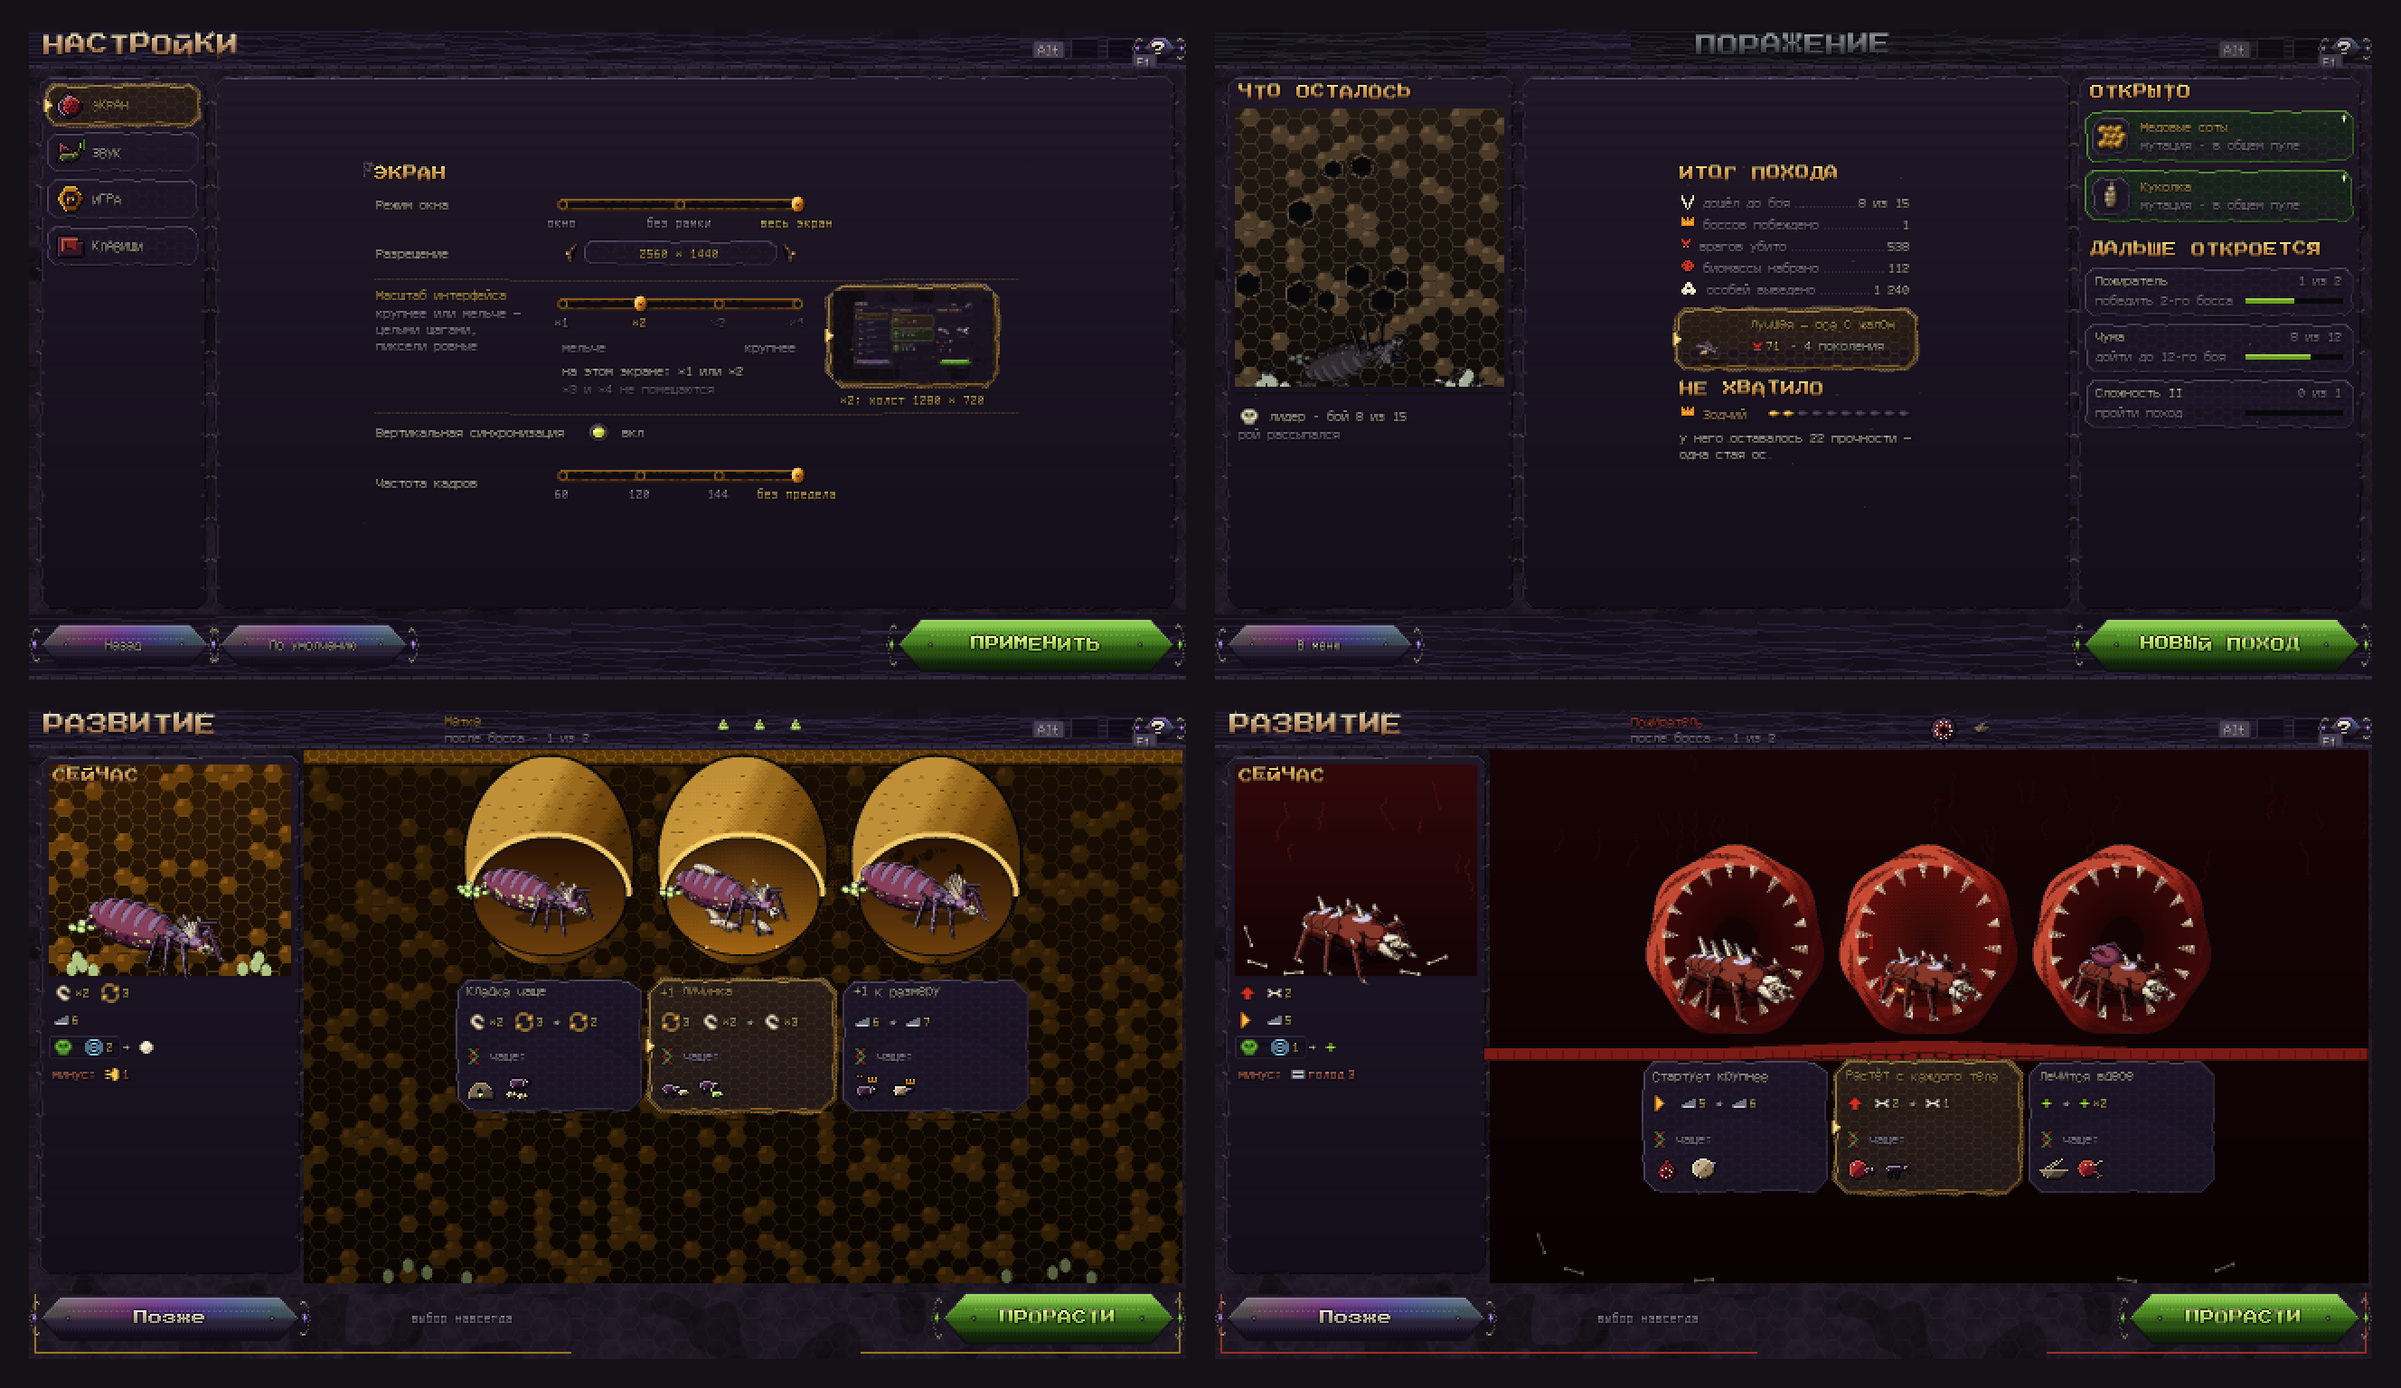
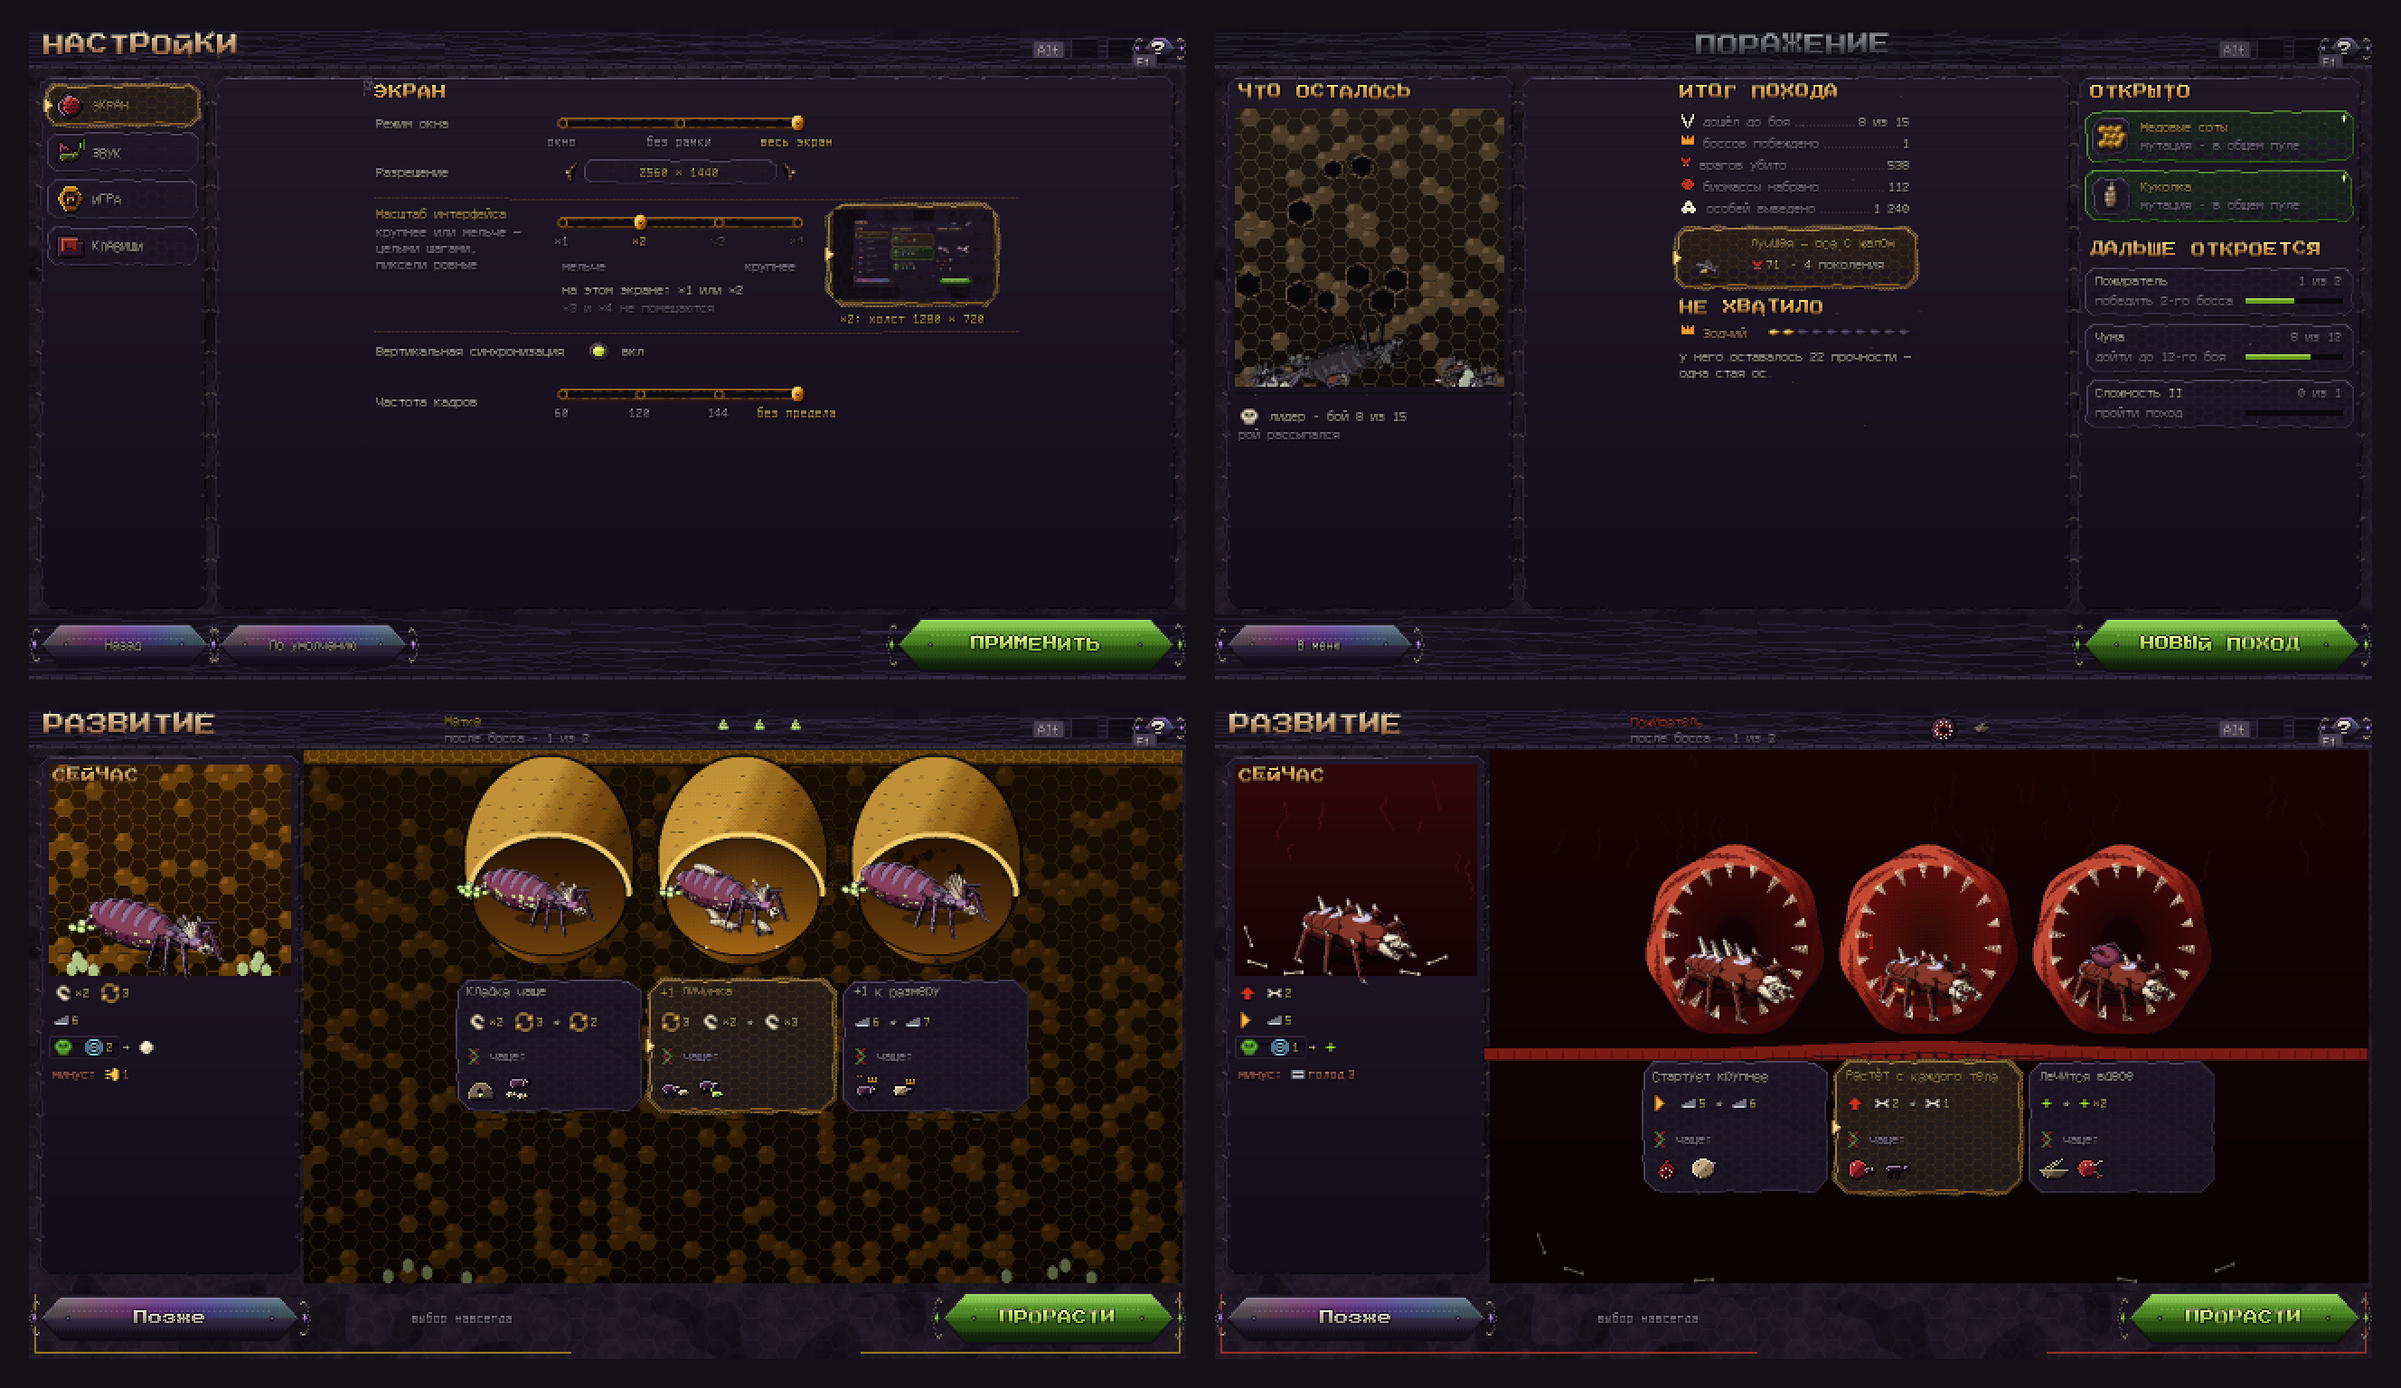
Рой: остальные экраны на большом холсте; споры и мёртвые заметнее
Улей, эволюция, выбор лидера и полные карточки на 1280×720; растущая плита
прижата к верху, край лидера обводит весь холст. Споры Чумы летят из
разрыва дождевика, мёртвая кладка на экране поражения лежит на полу с
бледной обводкой.

Claude-Session: https://claude.ai/code/session_01Bh6a99SKMjjKSinDnrtssC

diff --git a/tools/sprites/swarm_hud.py b/tools/sprites/swarm_hud.py
@@ -112,15 +112,15 @@ def glyph(sc, key, x, y, z=2):
     return a_.shape[1] * z
 
 
-def help_button(sc, on=False, alt=False):
+def help_button(sc, on=False, alt=False, dx=0):
     """The wing's right end, the same on every screen: the Alt key (lit while held — every line of glyphs read
-    out in words), two empty sockets kept for buttons to come, and «?» — the glossary (F1)."""
-    keycap(sc, 790, 14, "Alt", lit=alt)
-    for sx in (832, 872):                                   # kept for buttons to come
+    out in words), two empty sockets kept for buttons to come, and «?» — the glossary (F1). dx: a wider canvas."""
+    keycap(sc, 790 + dx, 14, "Alt", lit=alt)
+    for sx in (832 + dx, 872 + dx):                         # kept for buttons to come
         cond_plate(sc, sx, 10, sx + 32, 34)
-    UI.button(sc, 912, 8, 950, 36, "amber" if on else "chitin")
-    letters(sc, "?", 931, 14, "title", 16, col=DARK if on else INK, outline=not on, align="center")
-    keycap(sc, 900, 28, "F1")
+    UI.button(sc, 912 + dx, 8, 950 + dx, 36, "amber" if on else "chitin")
+    letters(sc, "?", 931 + dx, 14, "title", 16, col=DARK if on else INK, outline=not on, align="center")
+    keycap(sc, 900 + dx, 28, "F1")
 
 
 SILENT_KEYS = {"Enter", "Esc"}   # work on every screen, but are not written on the buttons
@@ -1288,32 +1288,43 @@ def bug_card(sc, cx, y0, name, sel, seed):
     sc.glow(cx, y0 + 398, 26, hexc("#9ae030"), 0.3 if sel else 0.15)
 
 
-def leaders_pick():
-    sc = frame_screen(41)
+def leaders_pick(W=WW, H=HH, ret=False):
+    """The leader's choice; on a bigger canvas the four cards spread out and stand in the middle, the buttons keep
+    to their ends."""
+    if W == WW and H == HH:
+        sc = frame_screen(41)
+    else:
+        UI.WOBBLE[0] = 1.3
+        HOVER.clear()
+        sc = UI.nest(W, H, 41)
+    dw, dh = W - WW, H - HH
     X, Y = sc.xx, sc.yy
-    fog = np.clip((Y - 300) / 240, 0, 1)[..., None] * 0.22    # acid haze rising from the floor
+    fog = np.clip((Y - 300 - dh) / 240, 0, 1)[..., None] * 0.22    # acid haze rising from the floor
     sc.rgb[:] = sc.rgb * (1 - fog) + np.array((60, 110, 20), float) * fog
     rnd = np.random.RandomState(7)
     for _ in range(40):                                          # bubbles
-        bx, by, br = rnd.randint(10, 950), rnd.randint(300, 470), rnd.choice((1, 1, 2, 3))
+        bx, by, br = rnd.randint(10, W - 10), rnd.randint(300 + dh, 470 + dh), rnd.choice((1, 1, 2, 3))
         ring = (np.abs(np.hypot(X - bx, Y - by) - br) < 0.7)
         sc.rgb[ring] = sc.rgb[ring] * 0.4 + np.array(ACID, float) * 0.6
-    UI.wing(sc, 0, 0, WW, 44)
-    UI.drips(sc, 60, 900, 44, "#7ab020", n=8, seed=18)
+    UI.wing(sc, 0, 0, W, 44)
+    UI.drips(sc, 60, W - 60, 44, "#7ab020", n=8, seed=18)
     w = letters(sc, "ЛИДЕР", 16, 6, "title", 24, col=(236, 216, 170), col2=(150, 96, 60), jitter=1, drips=6, hairs=9, seed=35)
     epithet(sc, "КТО СОЖРЕТ ИХ ВСЕХ", 16 + w + 44, 10, ACID, seed=36, px=24)
-    help_button(sc)
+    help_button(sc, dx=dw)
     names = ["Матка", "Разум улья", "Пожиратель", "Чума"]
     for i, name in enumerate(names):
-        bug_card(sc, 132 + i * 232, 60, name, i == 0, seed=40 + i)
-    UI.button(sc, 12, 470, 300, 520, "chitin")
-    letters(sc, "Назад", 156, 486, "title", 16, col=INK, align="center")
-    key_on(sc, 300, 470, "Esc")
-    UI.button(sc, 326, 470, 634, 520, "chitin")
-    letters(sc, "ПОЛНОЕ ОПИСАНИЕ", 480, 486, "title", 16, col=ACID2, align="center")
-    UI.button(sc, 660, 466, 948, 524, "acid")
-    letters(sc, "В ПОХОД", 804, 486, "title", 16, col=ACID2, col2=(110, 170, 40), align="center", jitter=1, hairs=4)
-    UI.cobweb(sc, 958, 46, 34, quad=(-1, 1))
+        bug_card(sc, int(W / 2 + (i - 1.5) * (232 + dw // 4)), 60 + dh // 2, name, i == 0, seed=40 + i)
+    UI.button(sc, 12, H - 70, 300, H - 20, "chitin")
+    letters(sc, "Назад", 156, H - 54, "title", 16, col=INK, align="center")
+    key_on(sc, 300, H - 70, "Esc")
+    UI.button(sc, W // 2 - 154, H - 70, W // 2 + 154, H - 20, "chitin")
+    letters(sc, "ПОЛНОЕ ОПИСАНИЕ", W // 2, H - 54, "title", 16, col=ACID2, align="center")
+    UI.button(sc, W - 300, H - 74, W - 12, H - 16, "acid")
+    letters(sc, "В ПОХОД", W - 156, H - 54, "title", 16, col=ACID2, col2=(110, 170, 40), align="center", jitter=1, hairs=4)
+    UI.cobweb(sc, W - 2, 46, 34, quad=(-1, 1))
+    if ret:
+        UI.WOBBLE[0] = 0.0
+        return sc
     img = sc.image(S)
     UI.WOBBLE[0] = 0.0
     img.save(out("swarm_leader_pick.png"))
@@ -1484,13 +1495,18 @@ def pod_kuk(sc, cx, cy, hot, frame):
         px_, py_ = cx + rnd.randint(-60, 60), cy + rnd.randint(-70, 80)
         if inner[py_, px_]:
             sc.rgb[py_, px_] = hexc("#c8f070")
-    if hot:
-        for k in range(16):                                               # a puff of spores rising off it
-            q = ((frame / 24.0 + k / 16.0) % 1.0)
-            px_ = int(cx + np.sin(k * 2.3) * (20 + 50 * q))
-            py_ = int(cy - 114 - q * 40)
+    if hot:                                                               # a puff of spores out of the tear, rising
+        sc.glow(cx, cy - 10, 60, hexc("#c8f070"), 0.18)
+        for k in range(22):
+            q = ((frame / 24.0 + k / 22.0) % 1.0)
+            px_ = int(cx + np.sin(k * 2.3) * (8 + 64 * q))
+            py_ = int(cy + 6 - q * 140)
             if py_ > 50:
-                sc.rgb[py_:py_ + 2, px_:px_ + 2] = hexc("#c8f070") * (1 - 0.6 * q) + sc.rgb[py_, px_] * 0.6 * q
+                sz = 3 if q < 0.45 else 2
+                c = hexc("#e8ffa0") * (1 - 0.5 * q) + sc.rgb[py_, px_] * 0.5 * q
+                sc.rgb[py_ - 1:py_ + sz + 1, px_:px_ + sz] = UI.OUTL
+                sc.rgb[py_:py_ + sz, px_ - 1:px_ + sz + 1] = UI.OUTL
+                sc.rgb[py_:py_ + sz, px_:px_ + sz] = c
     return inner
 
 

diff --git a/tools/sprites/swarm_wide.py b/tools/sprites/swarm_wide.py
@@ -99,7 +99,7 @@ def sheet():
     print("swarm_wide_brood.png")
 
 
-def plates_layout(name, cols, W, H, split=600, foot_wing=True, leader=None):
+def plates_layout(name, cols, W, H, split=600, foot_wing=True, leader=None, rim=None):
     """Any swarm screen of plates side by side: the wing the full width, the plates pinned to their edges, the one
     marked «grow» taking the extra width (its content centred), every plate taking the extra height (content at
     its top); the foot the full width, its left buttons pinned left and its right ones right. A «chamber» grows
@@ -125,7 +125,7 @@ def plates_layout(name, cols, W, H, split=600, foot_wing=True, leader=None):
             UI.plate(sc, nx0, y0, nx1, y1 + dh)
             ix0, iy0, ix1, iy1 = x0 + 5, y0 + 5, x1 - 5, y1 - 5
         ox = nx0 + (dw // 2 if mode in ("grow", "chamber") else 0) + (ix0 - x0)
-        sink = dh // 2 if mode in ("grow", "chamber") else 0
+        sink = dh // 2 if mode == "chamber" else 0                       # a growing plate: headings stay in line
         if mode == "chamber" and leader == "Матка":                       # her cells hang from the ceiling: pinned up
             sink = 0
         oy = sink + iy0
@@ -149,8 +149,72 @@ def plates_layout(name, cols, W, H, split=600, foot_wing=True, leader=None):
         UI.wing(sc, 0, sy + 2, W, H)
     paste(sc, src, 0, 468, split, 540, 0, sy + 2)
     paste(sc, src, split, 466, 960, 540, W - (960 - split), sy)
+    if rim:                                                               # a leader's screen: its edge, the full size
+        rim_at(sc, rim, W, H, 46)
     UI.WOBBLE[0] = 0.0
     return sc
+
+
+def rim_at(sc, col, W, H, y0):
+    """The leader's (or the form's) coloured edge round a screen of any size (swarm_hud._rim)."""
+    c = hexc(col)
+    for k in (0, 1):
+        sc.rgb[y0 + k, 6:W - 6] = c * (0.9 - 0.3 * k)
+        sc.rgb[H - 7 - k, 6:W - 6] = c * (0.9 - 0.3 * k)
+        sc.rgb[y0:H - 6, 6 + k] = c * (0.9 - 0.3 * k)
+        sc.rgb[y0:H - 6, W - 7 - k] = c * (0.9 - 0.3 * k)
+
+
+def card_layout(name, W, H, rim=None, left=440):
+    """A full card (swarm_hud.big_card) on a bigger canvas: one plate the whole size; the portrait and its facts
+    pinned left and top, «Закрыть» to the bottom left; the numbers and attacks in the middle; the abilities
+    pinned right — only what was drawn on the plate is lifted onto the bigger one."""
+    src = load(name)
+    UI.WOBBLE[0] = 1.3
+    dw, dh = W - 960, H - 540
+    sc = UI.nest(W, H, 13)
+    beam(sc, src, W, left)
+    bare = Scene(960, 540)
+    UI.plate(bare, 6, 50, 954, 534)
+    UI.plate(sc, 6, 50, W - 6, H - 6)
+
+    def lift(x0, y0, x1, y1, dx, dy):
+        part, base_ = src[y0:y1, x0:x1], bare.rgb[y0:y1, x0:x1]
+        m = np.abs(part - base_).max(axis=-1) > 10
+        m = m | np.roll(m, 1, 0) | np.roll(m, -1, 0) | np.roll(m, 1, 1) | np.roll(m, -1, 1)
+        dst = sc.rgb[y0 + dy:y1 + dy, x0 + dx:x1 + dx]
+        dst[m] = part[m]
+    lift(10, 54, 310, 470, 0, 0)                                          # the portrait and its facts
+    lift(10, 470, 310, 530, 0, dh)                                        # «Закрыть»
+    lift(310, 54, 624, 530, dw // 2, 0)                                   # the numbers, the attacks
+    lift(624, 54, 950, 530, dw, 0)                                        # the abilities
+    if rim:
+        rim_at(sc, rim, W, H, 50)
+    UI.WOBBLE[0] = 0.0
+    return sc
+
+
+def screens_sheet2():
+    """The rest at 1280×720: the hive (the Devourer's), the evolution (the Plague's), the leader's choice, a card."""
+    import swarm_form_cards as FC
+    k = 0.5
+    cw, ch = int(1280 * k), int(720 * k)
+    canvas = Image.new("RGB", (cw * 2 + 48, ch * 2 + 48), (20, 18, 22))
+    camp = [(12, 52, 286, 446, "pin_l"), (296, 52, 652, 446, "grow"), (662, 52, 948, 446, "pin_r")]
+    evo = [(12, 52, 300, 446, "pin_l"), (310, 52, 948, 446, "grow")]
+    lays = [plates_layout("swarm_camp_pozh.png", camp, 1280, 720, 600, False, None, SH.LEADER_COL["Пожиратель"]),
+            plates_layout("swarm_evolution_kuk.png", evo, 1280, 720, 600, False, None, SH.LEADER_COL["Чума"]),
+            SH.leaders_pick(1280, 720, ret=True),
+            card_layout("swarm_card_wasp.png", 1280, 720, FC.FORM["wings"][2])]
+    for i, sc in enumerate(lays):
+        im = Image.fromarray(np.clip(sc.rgb, 0, 255).astype(np.uint8)).resize((cw, ch), Image.BOX)
+        canvas.paste(im, (16 + (i % 2) * (cw + 16), 16 + (i // 2) * (ch + 16)))
+    canvas = canvas.resize((canvas.width * 2, canvas.height * 2), Image.NEAREST)
+    canvas.save(out("swarm_wide_screens2.png"))
+    print("swarm_wide_screens2.png", canvas.size)
+    big = card_layout("swarm_card_leader.png", 1280, 720, SH.LEADER_COL["Матка"])
+    Image.fromarray(np.clip(big.rgb, 0, 255).astype(np.uint8)).resize((2560, 1440), Image.NEAREST).save(out("swarm_wide_card.png"))
+    print("swarm_wide_card.png")
 
 
 SCREENS = [   # file, its plates (x0, y0, x1, y1, how it grows), where the foot splits, a foot wing, the leader
@@ -230,3 +294,4 @@ if __name__ == "__main__":
     sheet()
     battle_sheet()
     screens_sheet()
+    screens_sheet2()

diff --git a/tools/sprites/swarm_menus.py b/tools/sprites/swarm_menus.py
@@ -336,12 +336,20 @@ def defeat(name="Матка", ret=False, anim=None):
     body = flip_dead(SL.build(name, "idle", k_))
     bottom = np.nonzero(body.a.any(axis=1))[0].max()
     sc.blit(body, int(171 - body.ox), int(390 - bottom), emit=False)
-    for j, (dx, dy, tr) in enumerate(((-110, 4, ()), (-70, 14, ("wings",)), (96, 8, ("stinger",)), (120, 18, ()),
-                                       (-30, 22, ("horn",)))):
-        b = flip_dead(SH.bug(tr, "idle", 0.75, 400 + j))
-        sc.blit(b, int(171 + dx - b.ox), int(372 + dy - b.oy), emit=False)
     sc.rgb[396:404, 22:320] = hexc("#1a1418")
     dark_nest(sc, (X >= 22) & (X < 320) & (Y >= 88) & (Y < 404), 0.6)
+    for j, (dx, tr) in enumerate(((-118, ()), (-78, ("wings",)), (92, ("stinger",)), (128, ()), (-36, ("horn",)))):
+        b = flip_dead(SH.bug(tr, "idle", 1.35, 400 + j), 0.3)               # its dead brood on the floor round it
+        bottom = np.nonzero(b.a.any(axis=1))[0].max()
+        bx, by = int(171 + dx - b.ox), int(395 - bottom)
+        rim = np.zeros((b.h + 2, b.w + 2), bool)                          # a cold pale rim, so they read in the dark
+        for oy, ox in ((0, 1), (2, 1), (1, 0), (1, 2)):
+            rim[oy:oy + b.h, ox:ox + b.w] |= b.a
+        rim[1:-1, 1:-1] &= ~b.a
+        ys, xs = np.nonzero(rim)
+        ok = (by + ys - 1 >= 0) & (by + ys - 1 < sc.h) & (bx + xs - 1 >= 0) & (bx + xs - 1 < sc.w)
+        sc.rgb[by + ys[ok] - 1, bx + xs[ok] - 1] = hexc("#5a5866")
+        sc.blit(b, bx, by, emit=False)
     lv = SH.larva("idle", 0.7)                                           # the last larva, still twitching
     lx, ly = 250 + (1 if (fr_ // 3) % 4 == 0 else 0), 392
     sc.blit(lv, int(lx - lv.ox), int(ly - lv.oy - (1 if (fr_ // 3) % 4 == 1 else 0)), emit=False)
